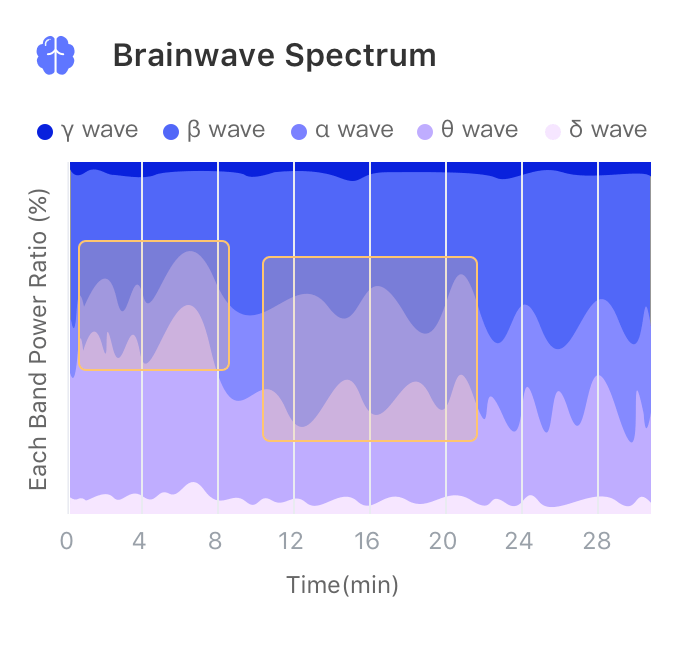
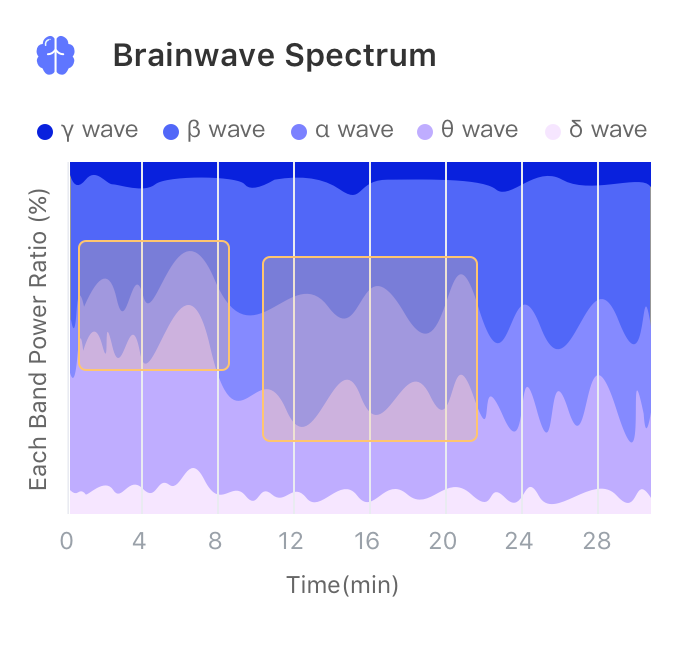
数据说明更新，与新的信号处理系统匹配

diff --git a/work/☁数据说明/1. 脑电波（EEG）.md b/work/☁数据说明/1. 脑电波（EEG）.md
@@ -3,12 +3,14 @@
 ### 脑电波（EEG Wave）
 大脑中大量神经细胞的活动会在前额皮肤上产生微弱的电信号，大脑状态的变化会通过脑电波体现出来。回车生物电采集模块通过特殊的电极与脑电采集模块获取左前额与右前额的电信号，从中提取有效的脑电波成分，得到实时脑电波形。
 
-佩戴设备后，电极与皮肤之间存在极化过程（与皮肤状态有关，干燥的皮肤可能需要更长的极化时间，约为30s~1min），极化完成后将显示实时脑电波。未佩戴或佩戴不佳时，实时脑电波呈现一条直线，佩戴良好时，脑电波形如下：
+未佩戴设备或未检测到有效脑电波时，脑电波显示为一条直线；佩戴设备后，电极与皮肤之间存在极化过程（与皮肤状态有关，干燥的皮肤可能需要更长的极化时间，约为30s~1min），极化期间存在一定的噪声，可能导致脑电波时而显示为直线，极化完成后显示波形。
+
+为了获得更好的体验，实时脑电波保留了少量眼电信息，眨眼、眼动等小幅面部肌肉活动可在脑电波形上反映出来，但咬牙等大幅面部肌肉活动可能对脑电信号造成过多干扰，从而导致脑电波呈现为一条直线。
 
 ![正常有效的脑电波](media/%E6%AD%A3%E5%B8%B8%E6%9C%89%E6%95%88%E7%9A%84%E8%84%91%E7%94%B5%E6%B3%A2.png)
 
 
-![干扰很大时的脑电波](media/%E5%B9%B2%E6%89%B0%E5%BE%88%E5%A4%A7%E6%97%B6%E7%9A%84%E8%84%91%E7%94%B5%E6%B3%A2.png)
+![受到干扰的脑电波](media/受到干扰的脑电波.png)
 
 ![眨眼或者眼动情况下的脑电波](media/%E7%9C%A8%E7%9C%BC%E6%88%96%E8%80%85%E7%9C%BC%E5%8A%A8%E6%83%85%E5%86%B5%E4%B8%8B%E7%9A%84%E8%84%91%E7%94%B5%E6%B3%A2.png)
 
@@ -17,18 +19,18 @@
 ### 脑电波频段能量（EEG Wave Spectrum）
 通过对实时脑电波进行频域分析，可以得到实时变化的脑电波各个频段能量比例，脑电波各个频段的强弱可以反映大脑的活动状态。
 
-不同人的在不同状态下的脑电波各个频段能量比例会存在一定差异。佩戴良好且无大干扰时，回车生物数据采集模块采集到脑电波一般表现为：β 波比例较大（35~55%），其次是θ 波（25~45%）和α波（15~35%），δ 波较少，γ 波很少。
+不同人的在不同状态下的脑电波各个频段能量比例会存在一定差异。清醒状态下佩戴良好且无大干扰时，回车生物数据采集模块采集到脑电波一般表现为：β 波比例较大（30~40%），其次是θ 波（25~35%）和α波（20~30%），γ 波较少（10%左右），δ 波很少（10%以下）。
 
 > [!NOTE]
 > 由于采集到的脑电波频段能量比例受到设备幅频特性的影响，不同的脑电波采集装置对脑电波各个频段的敏感度不同，因此我们采集到的脑电波各个频段能量比例与专业医疗设备可能存在差异。
 
 | 名称 | 频段 | 能量占比 | 状态说明 |
 | :---: | :---: | :---: | :---: | 
-| γ波 | 30Hz以上 | 2%左右 | 觉醒且非常专注 |
-| β波 | 14~30Hz | 35~55% | 专注、亢奋、紧张 |
-| α波 | 8~13Hz | 15~35% | 清醒、放松、闭眼 |
-| θ波 | 4~7Hz | 25~45% | 非常放松、浅睡 |
-| δ波 | 1~3Hz | 5%左右 | 深睡 |
+| γ波 | 30Hz以上 | 10%左右 | 觉醒且非常专注 |
+| β波 | 14~30Hz | 30~40% | 专注、亢奋、紧张 |
+| α波 | 8~13Hz | 20~30% | 清醒、放松、闭眼 |
+| θ波 | 4~7Hz | 25~35% | 非常放松、浅睡 |
+| δ波 | 1~3Hz | 10%以下 | 深睡 |
 
 ## 最佳实践
 > [!TIP]
@@ -39,7 +41,7 @@
 
 | 名称 | 冥想状态 |
 | :---: | :---: |
-| γ波 | 资深经验的冥想人士在冥想过程中可能出现 |
+| γ波 | 资深经验的冥想人士在冥想过程中该频段可能出现较高能量 |
 | β波 | 冥想过程中，在专注度较高时该频段能量较高 |
 | α波 | 冥想过程中，由于闭眼和放松，该频段能量会比平时有所增加 |
 | θ波 | 具有一定冥想经验的人在冥想过程中可以出现较高的θ波，但同时又保持清醒 |

diff --git a/work/☁数据说明/2. 心率（HR）.md b/work/☁数据说明/2. 心率（HR）.md
@@ -31,7 +31,7 @@
 ### HRV 在冥想应用场景下的实践
 冥想过程中，HRV 也会随冥想状态有所变化，一般在呼吸放松状态下HRV值较高。随着长期的冥想练习，HRV 的总体水平将有所提高。
 
-![1年经验冥想者的冥想HRV变化](media/1%E5%B9%B4%E7%BB%8F%E9%AA%8C%E5%86%A5%E6%83%B3%E8%80%85%E7%9A%84%E5%86%A5%E6%83%B3HRV%E5%8F%98%E5%8C%96.png)
+![普通冥想者的冥想HRV变化](media/1%E5%B9%B4%E7%BB%8F%E9%AA%8C%E5%86%A5%E6%83%B3%E8%80%85%E7%9A%84%E5%86%A5%E6%83%B3HRV%E5%8F%98%E5%8C%96.png)
 
-![5年经验冥想者的冥想HRV变化](media/5%E5%B9%B4%E7%BB%8F%E9%AA%8C%E5%86%A5%E6%83%B3%E8%80%85%E7%9A%84%E5%86%A5%E6%83%B3HRV%E5%8F%98%E5%8C%96.png)
+![经验丰富的冥想者的冥想HRV变化](media/5%E5%B9%B4%E7%BB%8F%E9%AA%8C%E5%86%A5%E6%83%B3%E8%80%85%E7%9A%84%E5%86%A5%E6%83%B3HRV%E5%8F%98%E5%8C%96.png)
 
